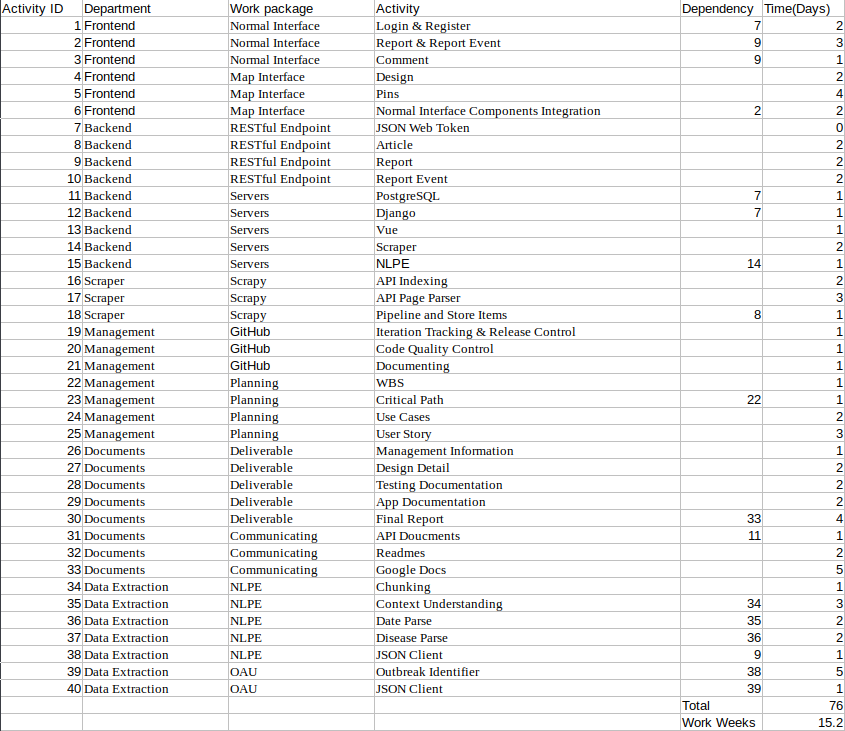
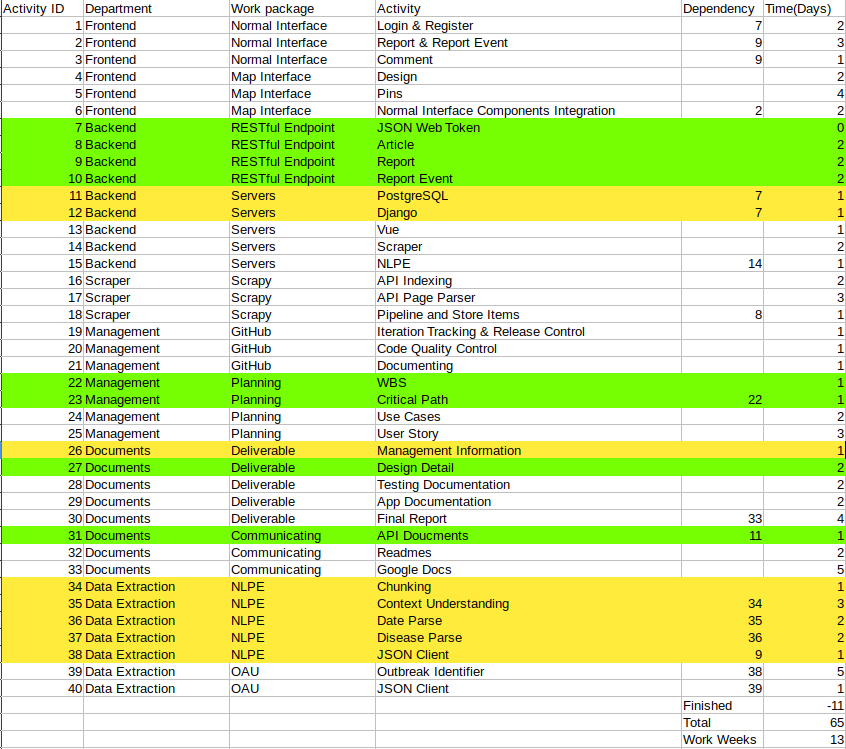
update graphs

diff --git a/Reports/ManageInfo.md b/Reports/ManageInfo.md
@@ -43,6 +43,8 @@
 
 ## Software Help Manage Team
 
+<!-- Need to expand the details and how we will use it. -->
+
 GitHub, WeChat, Facebook Messenger, Google Doc
 
 ## Backlog for Daily Progress Checking
